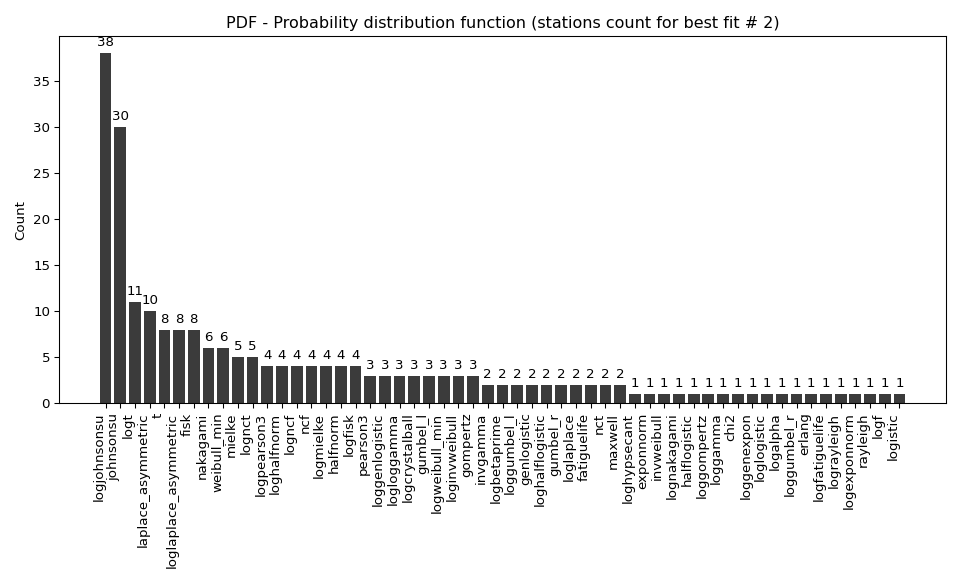
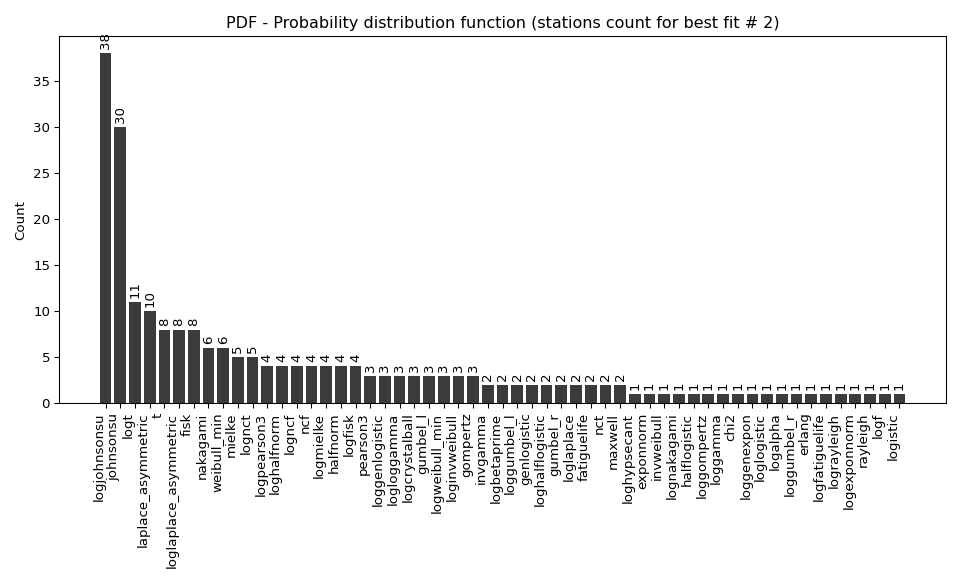
General update.

diff --git a/tool/PMP/paper.py b/tool/PMP/paper.py
@@ -244,6 +244,7 @@ for i in range(best_fit_sort_eval): # for i in range(len(edf_dist)+1): or for i 
     funcs.print_log(file_log, f'{df_station_record[['station', 'empirical_dist', 'p_dist', 'delta', 'deltao', 'n']].transpose().to_markdown()}', center_div=True, on_screen = print_on_screen)
     empirical_dist_count = df_station_record['empirical_dist'].value_counts().reset_index(name='Count').sort_values(by='Count', ascending=False)
     empirical_dist_count.index.name = 'id'
+    empirical_dist_count['Percentage'] = round((empirical_dist_count['Count']/empirical_dist_count['Count'].sum())*100, 2)
     funcs.print_log(file_log,f'EDF - Empirical distribution function (stations count best fit)\n{empirical_dist_count.to_markdown()}', center_div=True, on_screen=print_on_screen)
     if create_plot: # Empirical distribution count - Bar plot
         empirical_dist_count = empirical_dist_count.sort_values(by='Count', ascending=True)
@@ -261,6 +262,7 @@ for i in range(best_fit_sort_eval): # for i in range(len(edf_dist)+1): or for i 
         plt.close()
     probability_dist_count = df_station_record['p_dist'].value_counts().reset_index(name='Count').sort_values(by='Count', ascending=False)
     probability_dist_count.index.name = 'id'
+    probability_dist_count['Percentage'] = round((probability_dist_count['Count'] / probability_dist_count['Count'].sum()) * 100, 2)
     funcs.print_log(file_log,f'PDF - Probability distribution function (stations count best fit)\n{probability_dist_count.transpose().to_markdown()}', center_div=True, on_screen=print_on_screen)
     if create_plot: # Probability distribution count - Bar plot
         #probability_dist_count = probability_dist_count.sort_values(by='Count', ascending=True)
@@ -268,7 +270,7 @@ for i in range(best_fit_sort_eval): # for i in range(len(edf_dist)+1): or for i 
         fig, ax = plt.subplots(figsize=(10, 6))
         bars = ax.bar(probability_dist_count['p_dist'], probability_dist_count['Count'], color=color_plot)
         plt.xticks(rotation=90, ha='right')
-        ax.bar_label(bars, padding=3)
+        ax.bar_label(bars, padding=3, rotation=90)
         ax.set_title(f'PDF - Probability distribution function (stations count for best fit # {i+1})')
         ax.set_ylabel('Count')
         plt.tight_layout() # Important >>> prevents cutting labels

diff --git a/tool/PMP/pmp.py b/tool/PMP/pmp.py
@@ -27,7 +27,7 @@ pd.set_option('display.width', None)
 app_version = 'v20260103'
 input_path = 'dataset/pmax24h_in/' # Your local input file folder
 output_path = 'dataset/pmax24h_out/' # Your local output file folder
-station_dataset_file = input_path + 'automatic_test.csv' # Stations dataset ●
+station_dataset_file = input_path + 'xxxxautomatic_test.csv' # Stations dataset ●
 station_catalog_file = 'dataset/CNE.xls' # CNE catalog for stations info
 station_catalog_columns_drop = ['OBSERVACION', 'SUBRED'] # Dropped columns from CNE
 parameter_name = 'Rain, Pmax24h' # rain, flow

diff --git a/tool/PMP/dataset/pmax24h_out/paper/paper.md b/tool/PMP/dataset/pmax24h_out/paper/paper.md
@@ -5,7 +5,7 @@
 
 </div>
 
-# Study and analysis of the Probable Maximum Precipitation (PMP) in the network of automatic stations in Colombia - South America and estimation of extreme values for different return periods from multiple probability distributions.
+# Study and analysis of the Probable Maximum Precipitation (PMP) in the network of automatic climatological stations of Colombia - South America and estimation of extreme values for different return periods from multiple probability distributions.
 
 
 Probable Maximum Precipitation (PMP) is the greatest amount of rainfall for a specific duration that is meteorologically possible for a given location, acting as a "worst-case" scenario for extreme storms, crucial for designing safety-critical infrastructure like bridges, river deviations, dams, spillways, and nuclear plants to prevent catastrophic failure. PMP is calculated by hydrologists using meteorological data to determine the upper limit of extreme rainfall, often leading to the Probable Maximum Flood (PMF) for flood control design, and is increasingly being studied for climate change impacts.
@@ -1090,19 +1090,19 @@ The follow tables and graph shows the evaluation of the 3 best fit order ranking
 <div align="center">
 
 EDF - Empirical distribution function (stations count best fit)
-|   id | empirical_dist   |   Count |
-|-----:|:-----------------|--------:|
-|    0 | edf_hazen        |      79 |
-|    1 | edf_adamowski    |      32 |
-|    2 | edf_weibull      |      31 |
-|    3 | edf_california   |      24 |
-|    4 | edf_cunnane      |      14 |
-|    5 | edf_chegodayev   |      14 |
-|    6 | edf_gringorten   |      11 |
-|    7 | edf_tukey        |       9 |
-|    8 | edf_blom         |       5 |
-|    9 | edf_filliben     |       4 |
-|   10 | edf_jenkinson    |       3 |
+|   id | empirical_dist   |   Count |   Percentage |
+|-----:|:-----------------|--------:|-------------:|
+|    0 | edf_hazen        |      79 |        34.96 |
+|    1 | edf_adamowski    |      32 |        14.16 |
+|    2 | edf_weibull      |      31 |        13.72 |
+|    3 | edf_california   |      24 |        10.62 |
+|    4 | edf_cunnane      |      14 |         6.19 |
+|    5 | edf_chegodayev   |      14 |         6.19 |
+|    6 | edf_gringorten   |      11 |         4.87 |
+|    7 | edf_tukey        |       9 |         3.98 |
+|    8 | edf_blom         |       5 |         2.21 |
+|    9 | edf_filliben     |       4 |         1.77 |
+|   10 | edf_jenkinson    |       3 |         1.33 |
 
 </div>
 
@@ -1117,10 +1117,11 @@ EDF - Empirical distribution function (stations count best fit)
 <div align="center">
 
 PDF - Probability distribution function (stations count best fit)
-|        | 0            | 1         | 2                  | 3   | 4    | 5                     | 6    | 7      | 8           | 9           | 10      | 11     | 12      | 13       | 14          | 15        | 16             | 17          | 18          | 19   | 20   | 21       | 22     | 23             | 24       | 25          | 26   | 27              | 28            | 29        | 30       | 31       | 32       | 33        | 34    | 35   | 36        | 37         | 38           | 39           | 40          | 41       | 42        | 43       | 44       | 45         | 46       | 47          | 48           | 49      | 50             | 51          | 52          | 53             | 54           | 55       |
-|:-------|:-------------|:----------|:-------------------|:----|:-----|:----------------------|:-----|:-------|:------------|:------------|:--------|:-------|:--------|:---------|:------------|:----------|:---------------|:------------|:------------|:-----|:-----|:---------|:-------|:---------------|:---------|:------------|:-----|:----------------|:--------------|:----------|:---------|:---------|:---------|:----------|:------|:-----|:----------|:-----------|:-------------|:-------------|:------------|:---------|:----------|:---------|:---------|:-----------|:---------|:------------|:-------------|:--------|:---------------|:------------|:------------|:---------------|:-------------|:---------|
-| p_dist | logjohnsonsu | johnsonsu | laplace_asymmetric | t   | logt | loglaplace_asymmetric | fisk | mielke | weibull_min | logpearson3 | logfisk | lognct | maxwell | nakagami | fatiguelife | logmielke | logcrystalball | loghalfnorm | logloggamma | ncf  | nct  | gompertz | logncf | loggenlogistic | invgamma | loggenexpon | f    | loghalflogistic | loginvweibull | exponnorm | invgauss | halfnorm | pearson3 | hypsecant | expon | wald | logerlang | invweibull | halflogistic | loghypsecant | loggumbel_l | gumbel_l | kstwobign | genexpon | loggamma | loglaplace | gumbel_r | loginvgauss | logkstwobign | logrice | logweibull_min | loggumbel_r | genlogistic | logfatiguelife | logexponnorm | rayleigh |
-| Count  | 38           | 25        | 14                 | 11  | 11   | 10                    | 9    | 8      | 6           | 6           | 5       | 5      | 4       | 4        | 4           | 3         | 3              | 3           | 3           | 3    | 3    | 3        | 2      | 2              | 2        | 2           | 2    | 2               | 2             | 2         | 2        | 2        | 2        | 1         | 1     | 1    | 1         | 1          | 1            | 1            | 1           | 1        | 1         | 1        | 1        | 1          | 1        | 1           | 1            | 1       | 1              | 1           | 1           | 1              | 1            | 1        |
+|            | 0            | 1         | 2                  | 3    | 4    | 5                     | 6    | 7      | 8           | 9           | 10      | 11     | 12      | 13       | 14          | 15        | 16             | 17          | 18          | 19   | 20   | 21       | 22     | 23             | 24       | 25          | 26   | 27              | 28            | 29        | 30       | 31       | 32       | 33        | 34    | 35   | 36        | 37         | 38           | 39           | 40          | 41       | 42        | 43       | 44       | 45         | 46       | 47          | 48           | 49      | 50             | 51          | 52          | 53             | 54           | 55       |
+|:-----------|:-------------|:----------|:-------------------|:-----|:-----|:----------------------|:-----|:-------|:------------|:------------|:--------|:-------|:--------|:---------|:------------|:----------|:---------------|:------------|:------------|:-----|:-----|:---------|:-------|:---------------|:---------|:------------|:-----|:----------------|:--------------|:----------|:---------|:---------|:---------|:----------|:------|:-----|:----------|:-----------|:-------------|:-------------|:------------|:---------|:----------|:---------|:---------|:-----------|:---------|:------------|:-------------|:--------|:---------------|:------------|:------------|:---------------|:-------------|:---------|
+| p_dist     | logjohnsonsu | johnsonsu | laplace_asymmetric | t    | logt | loglaplace_asymmetric | fisk | mielke | weibull_min | logpearson3 | logfisk | lognct | maxwell | nakagami | fatiguelife | logmielke | logcrystalball | loghalfnorm | logloggamma | ncf  | nct  | gompertz | logncf | loggenlogistic | invgamma | loggenexpon | f    | loghalflogistic | loginvweibull | exponnorm | invgauss | halfnorm | pearson3 | hypsecant | expon | wald | logerlang | invweibull | halflogistic | loghypsecant | loggumbel_l | gumbel_l | kstwobign | genexpon | loggamma | loglaplace | gumbel_r | loginvgauss | logkstwobign | logrice | logweibull_min | loggumbel_r | genlogistic | logfatiguelife | logexponnorm | rayleigh |
+| Count      | 38           | 25        | 14                 | 11   | 11   | 10                    | 9    | 8      | 6           | 6           | 5       | 5      | 4       | 4        | 4           | 3         | 3              | 3           | 3           | 3    | 3    | 3        | 2      | 2              | 2        | 2           | 2    | 2               | 2             | 2         | 2        | 2        | 2        | 1         | 1     | 1    | 1         | 1          | 1            | 1            | 1           | 1        | 1         | 1        | 1        | 1          | 1        | 1           | 1            | 1       | 1              | 1           | 1           | 1              | 1            | 1        |
+| Percentage | 16.81        | 11.06     | 6.19               | 4.87 | 4.87 | 4.42                  | 3.98 | 3.54   | 2.65        | 2.65        | 2.21    | 2.21   | 1.77    | 1.77     | 1.77        | 1.33      | 1.33           | 1.33        | 1.33        | 1.33 | 1.33 | 1.33     | 0.88   | 0.88           | 0.88     | 0.88        | 0.88 | 0.88            | 0.88          | 0.88      | 0.88     | 0.88     | 0.88     | 0.44      | 0.44  | 0.44 | 0.44      | 0.44       | 0.44         | 0.44         | 0.44        | 0.44     | 0.44      | 0.44     | 0.44     | 0.44       | 0.44     | 0.44        | 0.44         | 0.44    | 0.44           | 0.44        | 0.44        | 0.44           | 0.44         | 0.44     |
 
 </div>
 
@@ -1151,20 +1152,20 @@ PDF - Probability distribution function (stations count best fit)
 <div align="center">
 
 EDF - Empirical distribution function (stations count best fit)
-|   id | empirical_dist   |   Count |
-|-----:|:-----------------|--------:|
-|    0 | edf_gringorten   |      79 |
-|    1 | edf_adamowski    |      33 |
-|    2 | edf_chegodayev   |      21 |
-|    3 | edf_hazen        |      20 |
-|    4 | edf_jenkinson    |      18 |
-|    5 | edf_cunnane      |      16 |
-|    6 | edf_blom         |      12 |
-|    7 | edf_weibull      |      11 |
-|    8 | edf_filliben     |       9 |
-|    9 | edf_beard        |       3 |
-|   10 | edf_tukey        |       2 |
-|   11 | edf_california   |       2 |
+|   id | empirical_dist   |   Count |   Percentage |
+|-----:|:-----------------|--------:|-------------:|
+|    0 | edf_gringorten   |      79 |        34.96 |
+|    1 | edf_adamowski    |      33 |        14.6  |
+|    2 | edf_chegodayev   |      21 |         9.29 |
+|    3 | edf_hazen        |      20 |         8.85 |
+|    4 | edf_jenkinson    |      18 |         7.96 |
+|    5 | edf_cunnane      |      16 |         7.08 |
+|    6 | edf_blom         |      12 |         5.31 |
+|    7 | edf_weibull      |      11 |         4.87 |
+|    8 | edf_filliben     |       9 |         3.98 |
+|    9 | edf_beard        |       3 |         1.33 |
+|   10 | edf_tukey        |       2 |         0.88 |
+|   11 | edf_california   |       2 |         0.88 |
 
 </div>
 
@@ -1179,10 +1180,11 @@ EDF - Empirical distribution function (stations count best fit)
 <div align="center">
 
 PDF - Probability distribution function (stations count best fit)
-|        | 0            | 1         | 2    | 3                  | 4   | 5                     | 6    | 7        | 8           | 9      | 10     | 11          | 12          | 13     | 14   | 15        | 16       | 17      | 18       | 19             | 20          | 21             | 22       | 23             | 24            | 25       | 26       | 27           | 28          | 29          | 30              | 31       | 32         | 33          | 34   | 35      | 36           | 37        | 38         | 39          | 40           | 41          | 42       | 43   | 44          | 45          | 46       | 47          | 48     | 49             | 50          | 51           | 52       | 53   | 54       |
-|:-------|:-------------|:----------|:-----|:-------------------|:----|:----------------------|:-----|:---------|:------------|:-------|:-------|:------------|:------------|:-------|:-----|:----------|:---------|:--------|:---------|:---------------|:------------|:---------------|:---------|:---------------|:--------------|:---------|:---------|:-------------|:------------|:------------|:----------------|:---------|:-----------|:------------|:-----|:--------|:-------------|:----------|:-----------|:------------|:-------------|:------------|:---------|:-----|:------------|:------------|:---------|:------------|:-------|:---------------|:------------|:-------------|:---------|:-----|:---------|
-| p_dist | logjohnsonsu | johnsonsu | logt | laplace_asymmetric | t   | loglaplace_asymmetric | fisk | nakagami | weibull_min | mielke | lognct | logpearson3 | loghalfnorm | logncf | ncf  | logmielke | halfnorm | logfisk | pearson3 | loggenlogistic | logloggamma | logcrystalball | gumbel_l | logweibull_min | loginvweibull | gompertz | invgamma | logbetaprime | loggumbel_l | genlogistic | loghalflogistic | gumbel_r | loglaplace | fatiguelife | nct  | maxwell | loghypsecant | exponnorm | invweibull | lognakagami | halflogistic | loggompertz | loggamma | chi2 | loggenexpon | loglogistic | logalpha | loggumbel_r | erlang | logfatiguelife | lograyleigh | logexponnorm | rayleigh | logf | logistic |
-| Count  | 38           | 30        | 11   | 10                 | 8   | 8                     | 8    | 6        | 6           | 5      | 5      | 4           | 4           | 4      | 4    | 4         | 4        | 4       | 3        | 3              | 3           | 3              | 3        | 3              | 3             | 3        | 2        | 2            | 2           | 2           | 2               | 2        | 2          | 2           | 2    | 2       | 1            | 1         | 1          | 1           | 1            | 1           | 1        | 1    | 1           | 1           | 1        | 1           | 1      | 1              | 1           | 1            | 1        | 1    | 1        |
+|            | 0            | 1         | 2    | 3                  | 4    | 5                     | 6    | 7        | 8           | 9      | 10     | 11          | 12          | 13     | 14   | 15        | 16       | 17      | 18       | 19             | 20          | 21             | 22       | 23             | 24            | 25       | 26       | 27           | 28          | 29          | 30              | 31       | 32         | 33          | 34   | 35      | 36           | 37        | 38         | 39          | 40           | 41          | 42       | 43   | 44          | 45          | 46       | 47          | 48     | 49             | 50          | 51           | 52       | 53   | 54       |
+|:-----------|:-------------|:----------|:-----|:-------------------|:-----|:----------------------|:-----|:---------|:------------|:-------|:-------|:------------|:------------|:-------|:-----|:----------|:---------|:--------|:---------|:---------------|:------------|:---------------|:---------|:---------------|:--------------|:---------|:---------|:-------------|:------------|:------------|:----------------|:---------|:-----------|:------------|:-----|:--------|:-------------|:----------|:-----------|:------------|:-------------|:------------|:---------|:-----|:------------|:------------|:---------|:------------|:-------|:---------------|:------------|:-------------|:---------|:-----|:---------|
+| p_dist     | logjohnsonsu | johnsonsu | logt | laplace_asymmetric | t    | loglaplace_asymmetric | fisk | nakagami | weibull_min | mielke | lognct | logpearson3 | loghalfnorm | logncf | ncf  | logmielke | halfnorm | logfisk | pearson3 | loggenlogistic | logloggamma | logcrystalball | gumbel_l | logweibull_min | loginvweibull | gompertz | invgamma | logbetaprime | loggumbel_l | genlogistic | loghalflogistic | gumbel_r | loglaplace | fatiguelife | nct  | maxwell | loghypsecant | exponnorm | invweibull | lognakagami | halflogistic | loggompertz | loggamma | chi2 | loggenexpon | loglogistic | logalpha | loggumbel_r | erlang | logfatiguelife | lograyleigh | logexponnorm | rayleigh | logf | logistic |
+| Count      | 38           | 30        | 11   | 10                 | 8    | 8                     | 8    | 6        | 6           | 5      | 5      | 4           | 4           | 4      | 4    | 4         | 4        | 4       | 3        | 3              | 3           | 3              | 3        | 3              | 3             | 3        | 2        | 2            | 2           | 2           | 2               | 2        | 2          | 2           | 2    | 2       | 1            | 1         | 1          | 1           | 1            | 1           | 1        | 1    | 1           | 1           | 1        | 1           | 1      | 1              | 1           | 1            | 1        | 1    | 1        |
+| Percentage | 16.81        | 13.27     | 4.87 | 4.42               | 3.54 | 3.54                  | 3.54 | 2.65     | 2.65        | 2.21   | 2.21   | 1.77        | 1.77        | 1.77   | 1.77 | 1.77      | 1.77     | 1.77    | 1.33     | 1.33           | 1.33        | 1.33           | 1.33     | 1.33           | 1.33          | 1.33     | 0.88     | 0.88         | 0.88        | 0.88        | 0.88            | 0.88     | 0.88       | 0.88        | 0.88 | 0.88    | 0.44         | 0.44      | 0.44       | 0.44        | 0.44         | 0.44        | 0.44     | 0.44 | 0.44        | 0.44        | 0.44     | 0.44        | 0.44   | 0.44           | 0.44        | 0.44         | 0.44     | 0.44 | 0.44     |
 
 </div>
 
@@ -1213,20 +1215,20 @@ PDF - Probability distribution function (stations count best fit)
 <div align="center">
 
 EDF - Empirical distribution function (stations count best fit)
-|   id | empirical_dist   |   Count |
-|-----:|:-----------------|--------:|
-|    0 | edf_cunnane      |      82 |
-|    1 | edf_jenkinson    |      35 |
-|    2 | edf_chegodayev   |      24 |
-|    3 | edf_gringorten   |      21 |
-|    4 | edf_beard        |      17 |
-|    5 | edf_hazen        |      11 |
-|    6 | edf_blom         |       9 |
-|    7 | edf_adamowski    |       8 |
-|    8 | edf_filliben     |       7 |
-|    9 | edf_tukey        |       6 |
-|   10 | edf_weibull      |       4 |
-|   11 | edf_california   |       2 |
+|   id | empirical_dist   |   Count |   Percentage |
+|-----:|:-----------------|--------:|-------------:|
+|    0 | edf_cunnane      |      82 |        36.28 |
+|    1 | edf_jenkinson    |      35 |        15.49 |
+|    2 | edf_chegodayev   |      24 |        10.62 |
+|    3 | edf_gringorten   |      21 |         9.29 |
+|    4 | edf_beard        |      17 |         7.52 |
+|    5 | edf_hazen        |      11 |         4.87 |
+|    6 | edf_blom         |       9 |         3.98 |
+|    7 | edf_adamowski    |       8 |         3.54 |
+|    8 | edf_filliben     |       7 |         3.1  |
+|    9 | edf_tukey        |       6 |         2.65 |
+|   10 | edf_weibull      |       4 |         1.77 |
+|   11 | edf_california   |       2 |         0.88 |
 
 </div>
 
@@ -1241,10 +1243,11 @@ EDF - Empirical distribution function (stations count best fit)
 <div align="center">
 
 PDF - Probability distribution function (stations count best fit)
-|        | 0            | 1         | 2    | 3                     | 4   | 5    | 6                  | 7         | 8       | 9      | 10          | 11       | 12          | 13   | 14       | 15          | 16     | 17          | 18             | 19     | 20       | 21             | 22       | 23            | 24             | 25          | 26       | 27          | 28           | 29              | 30         | 31        | 32         | 33       | 34      | 35   | 36       | 37       | 38           | 39           | 40          | 41          | 42   | 43          | 44          | 45       | 46          | 47     | 48          | 49       | 50       | 51   | 52       |
-|:-------|:-------------|:----------|:-----|:----------------------|:----|:-----|:-------------------|:----------|:--------|:-------|:------------|:---------|:------------|:-----|:---------|:------------|:-------|:------------|:---------------|:-------|:---------|:---------------|:---------|:--------------|:---------------|:------------|:---------|:------------|:-------------|:----------------|:-----------|:----------|:-----------|:---------|:--------|:-----|:---------|:---------|:-------------|:-------------|:------------|:------------|:-----|:------------|:------------|:---------|:------------|:-------|:------------|:---------|:---------|:-----|:---------|
-| p_dist | logjohnsonsu | johnsonsu | logt | loglaplace_asymmetric | t   | fisk | laplace_asymmetric | logmielke | logfisk | mielke | logpearson3 | nakagami | loghalfnorm | ncf  | halfnorm | weibull_min | lognct | logloggamma | loggenlogistic | logncf | gumbel_l | logweibull_min | gompertz | loginvweibull | logcrystalball | fatiguelife | pearson3 | genlogistic | logbetaprime | loghalflogistic | loglaplace | exponnorm | invweibull | gumbel_r | maxwell | nct  | genexpon | invgauss | halflogistic | loghypsecant | lognakagami | loggumbel_l | chi2 | loggenexpon | loglogistic | logalpha | loggumbel_r | erlang | lograyleigh | invgamma | rayleigh | logf | logistic |
-| Count  | 34           | 30        | 15   | 10                    | 8   | 7    | 7                  | 6         | 6       | 6      | 5           | 5        | 4           | 4    | 4        | 4           | 4      | 4           | 3              | 3      | 3        | 3              | 3        | 3             | 3              | 3           | 3        | 3           | 2            | 2               | 2          | 2         | 2          | 2        | 2       | 2    | 1        | 1        | 1            | 1            | 1           | 1           | 1    | 1           | 1           | 1        | 1           | 1      | 1           | 1        | 1        | 1    | 1        |
+|            | 0            | 1         | 2    | 3                     | 4    | 5    | 6                  | 7         | 8       | 9      | 10          | 11       | 12          | 13   | 14       | 15          | 16     | 17          | 18             | 19     | 20       | 21             | 22       | 23            | 24             | 25          | 26       | 27          | 28           | 29              | 30         | 31        | 32         | 33       | 34      | 35   | 36       | 37       | 38           | 39           | 40          | 41          | 42   | 43          | 44          | 45       | 46          | 47     | 48          | 49       | 50       | 51   | 52       |
+|:-----------|:-------------|:----------|:-----|:----------------------|:-----|:-----|:-------------------|:----------|:--------|:-------|:------------|:---------|:------------|:-----|:---------|:------------|:-------|:------------|:---------------|:-------|:---------|:---------------|:---------|:--------------|:---------------|:------------|:---------|:------------|:-------------|:----------------|:-----------|:----------|:-----------|:---------|:--------|:-----|:---------|:---------|:-------------|:-------------|:------------|:------------|:-----|:------------|:------------|:---------|:------------|:-------|:------------|:---------|:---------|:-----|:---------|
+| p_dist     | logjohnsonsu | johnsonsu | logt | loglaplace_asymmetric | t    | fisk | laplace_asymmetric | logmielke | logfisk | mielke | logpearson3 | nakagami | loghalfnorm | ncf  | halfnorm | weibull_min | lognct | logloggamma | loggenlogistic | logncf | gumbel_l | logweibull_min | gompertz | loginvweibull | logcrystalball | fatiguelife | pearson3 | genlogistic | logbetaprime | loghalflogistic | loglaplace | exponnorm | invweibull | gumbel_r | maxwell | nct  | genexpon | invgauss | halflogistic | loghypsecant | lognakagami | loggumbel_l | chi2 | loggenexpon | loglogistic | logalpha | loggumbel_r | erlang | lograyleigh | invgamma | rayleigh | logf | logistic |
+| Count      | 34           | 30        | 15   | 10                    | 8    | 7    | 7                  | 6         | 6       | 6      | 5           | 5        | 4           | 4    | 4        | 4           | 4      | 4           | 3              | 3      | 3        | 3              | 3        | 3             | 3              | 3           | 3        | 3           | 2            | 2               | 2          | 2         | 2          | 2        | 2       | 2    | 1        | 1        | 1            | 1            | 1           | 1           | 1    | 1           | 1           | 1        | 1           | 1      | 1           | 1        | 1        | 1    | 1        |
+| Percentage | 15.04        | 13.27     | 6.64 | 4.42                  | 3.54 | 3.1  | 3.1                | 2.65      | 2.65    | 2.65   | 2.21        | 2.21     | 1.77        | 1.77 | 1.77     | 1.77        | 1.77   | 1.77        | 1.33           | 1.33   | 1.33     | 1.33           | 1.33     | 1.33          | 1.33           | 1.33        | 1.33     | 1.33        | 0.88         | 0.88            | 0.88       | 0.88      | 0.88       | 0.88     | 0.88    | 0.88 | 0.44     | 0.44     | 0.44         | 0.44         | 0.44        | 0.44        | 0.44 | 0.44        | 0.44        | 0.44     | 0.44        | 0.44   | 0.44        | 0.44     | 0.44     | 0.44 | 0.44     |
 
 </div>
 
